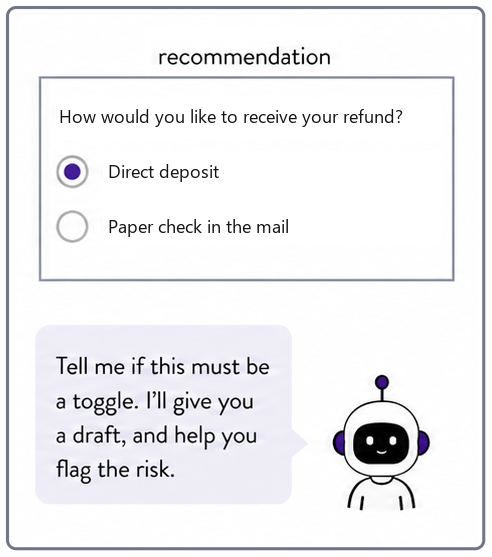
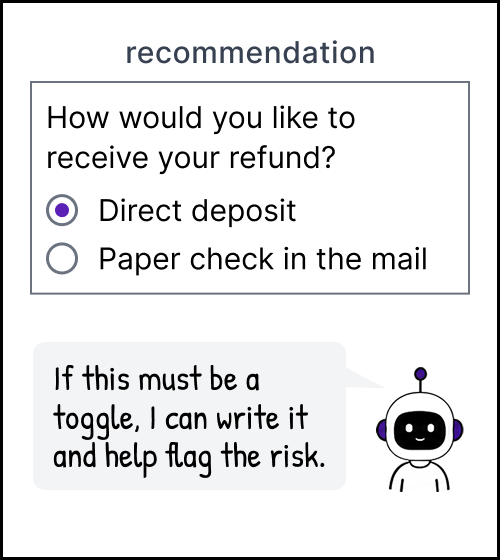
Swap comic to revised panels; add ticket card styling; fix disclosure affordance
Comic: new artwork throughout with reworded dialogue in all four panels.
Updated the sr-only transcript to match exactly, and the aspect-ratio
CSS to the new 500x560 native size (was 492x557).

Craft: the original incoming-request block (Overview/Business goal/
dollar value) gets a distinct bordered-card treatment with monospace
field labels, so it reads as an actual ticket rather than blending
into the newer Ask/Intervention coaching examples added last commit,
which keep the plain left-rule treatment.

All three "Other ways it played out" disclosures now carry a border-
bottom underline (matching team.html's .more-quotes), since the
plus-icon alone wasn't reading as clickable.

diff --git a/index.html b/index.html
@@ -308,7 +308,7 @@
     width: 100%;
     max-width: 288px;
     height: auto;
-    aspect-ratio: 492 / 557;
+    aspect-ratio: 500 / 560;
   }
 
   .comic-figure {
@@ -674,8 +674,10 @@
   /* Collapsed by default wherever a phase has a case study above it, so the
      one full story leads and these stay a secondary, optional read. Reuses
      the .stat accordion's rotating-plus affordance from team.html. */
+  /* Underline (matching .more-quotes in team.html) is the "this is
+     clickable" cue; the icon separately signals expand/collapse. */
   .more-ways > summary {
-    display: flex;
+    display: inline-flex;
     align-items: baseline;
     gap: 12px;
     cursor: pointer;
@@ -684,7 +686,14 @@
     font-weight: 600;
     line-height: 1.3;
     color: #1e293b;
+    border-bottom: 1px solid #e2e8f0;
+    padding-bottom: 2px;
     margin: 0 0 16px;
+    transition: border-color 0.2s;
+  }
+
+  .more-ways > summary:hover {
+    border-bottom-color: #1e293b;
   }
 
   .more-ways > summary::-webkit-details-marker {
@@ -840,6 +849,23 @@
   }
 
   .nk-ticket dd:last-of-type { margin-bottom: 0; }
+
+  /* The one block that's an actual incoming request, not a worked example --
+     a bordered, filled card with monospace field labels, so it reads as a
+     distinct artifact rather than the same list treatment as the newer
+     coaching examples further down. */
+  .nk-ticket--card {
+    border: 1px solid #e2e8f0;
+    background: #f8f9fa;
+    padding: 24px 32px;
+  }
+
+  .nk-ticket--card dt {
+    font-family: ui-monospace, SFMono-Regular, "SF Mono", Menlo, Consolas, "Liberation Mono", monospace;
+    font-size: 14px;
+    font-weight: 600;
+    color: #475569;
+  }
 
   /* Treatment row: visual left, evaluation right, never alternating. */
   .nk-treatment {
@@ -1199,6 +1225,7 @@
     /* Paired screens stack too; side by side they'd be too small to read. */
     .nk-visual-group { grid-template-columns: 1fr; gap: 16px; }
     .nk-ticket { padding-left: 16px; }
+    .nk-ticket--card { padding: 16px 20px; }
     .to-top { right: 16px; bottom: 16px; }
 
     /* The matrix keeps its shape and scrolls sideways. Collapsing it to cards
@@ -2732,10 +2759,10 @@
           <img src="images/comic-toggle-trouble/ux-designer-in-toggle-trouble-panel-4.png" alt="">
         </div>
         <figcaption class="sr-only">
-          <p>Panel 1. A UX designer says, "Hi coach! Help me write this." The request uses an on toggle and says, "Send refund by direct deposit. Otherwise, you'll get a paper check in the mail."</p>
-          <p>Panel 2. The Coach asks, "Quick question. Are they choosing between two ways to get their refund?" The designer replies, "Yep."</p>
-          <p>Panel 3. The Coach says, "Use radio buttons for a choice." A toggle is labeled "on / off" and marked with a red X. Two stacked radio buttons are labeled "either / or" and marked with a green check.</p>
-          <p>Panel 4. Recommendation: "How would you like to receive your refund?" "Direct deposit" is selected. "Paper check in the mail" is unselected. The Coach adds, "Tell me if this must be a toggle. I'll give you a draft, and help you flag the risk."</p>
+          <p>Panel 1. A UX designer says, "Help me write this." The request uses an on toggle and says, "Send refund by direct deposit. If not, we'll mail a check."</p>
+          <p>Panel 2. The Coach asks, "Quick question. Are they choosing which way to get a refund?" The designer replies, "Yep, you got it!"</p>
+          <p>Panel 3. The Coach says, "If they're choosing 1 of 2 options, use radio buttons." A toggle is labeled "on / off" and marked with a red X. Two stacked radio buttons are labeled "either / or" and marked with a green check.</p>
+          <p>Panel 4. Recommendation: "How would you like to receive your refund?" "Direct deposit" is selected. "Paper check in the mail" is unselected. The Coach adds, "If this must be a toggle, I can write it and help flag the risk."</p>
         </figcaption>
       </figure>
 
@@ -2805,7 +2832,7 @@
 
       <p>The request came in with minimal information.</p>
 
-      <dl class="nk-ticket">
+      <dl class="nk-ticket nk-ticket--card">
         <dt>Overview</dt>
         <dd>Add a walkthrough for new users. As the last step, point them to Perks.</dd>
         <dt>Business goal</dt>
